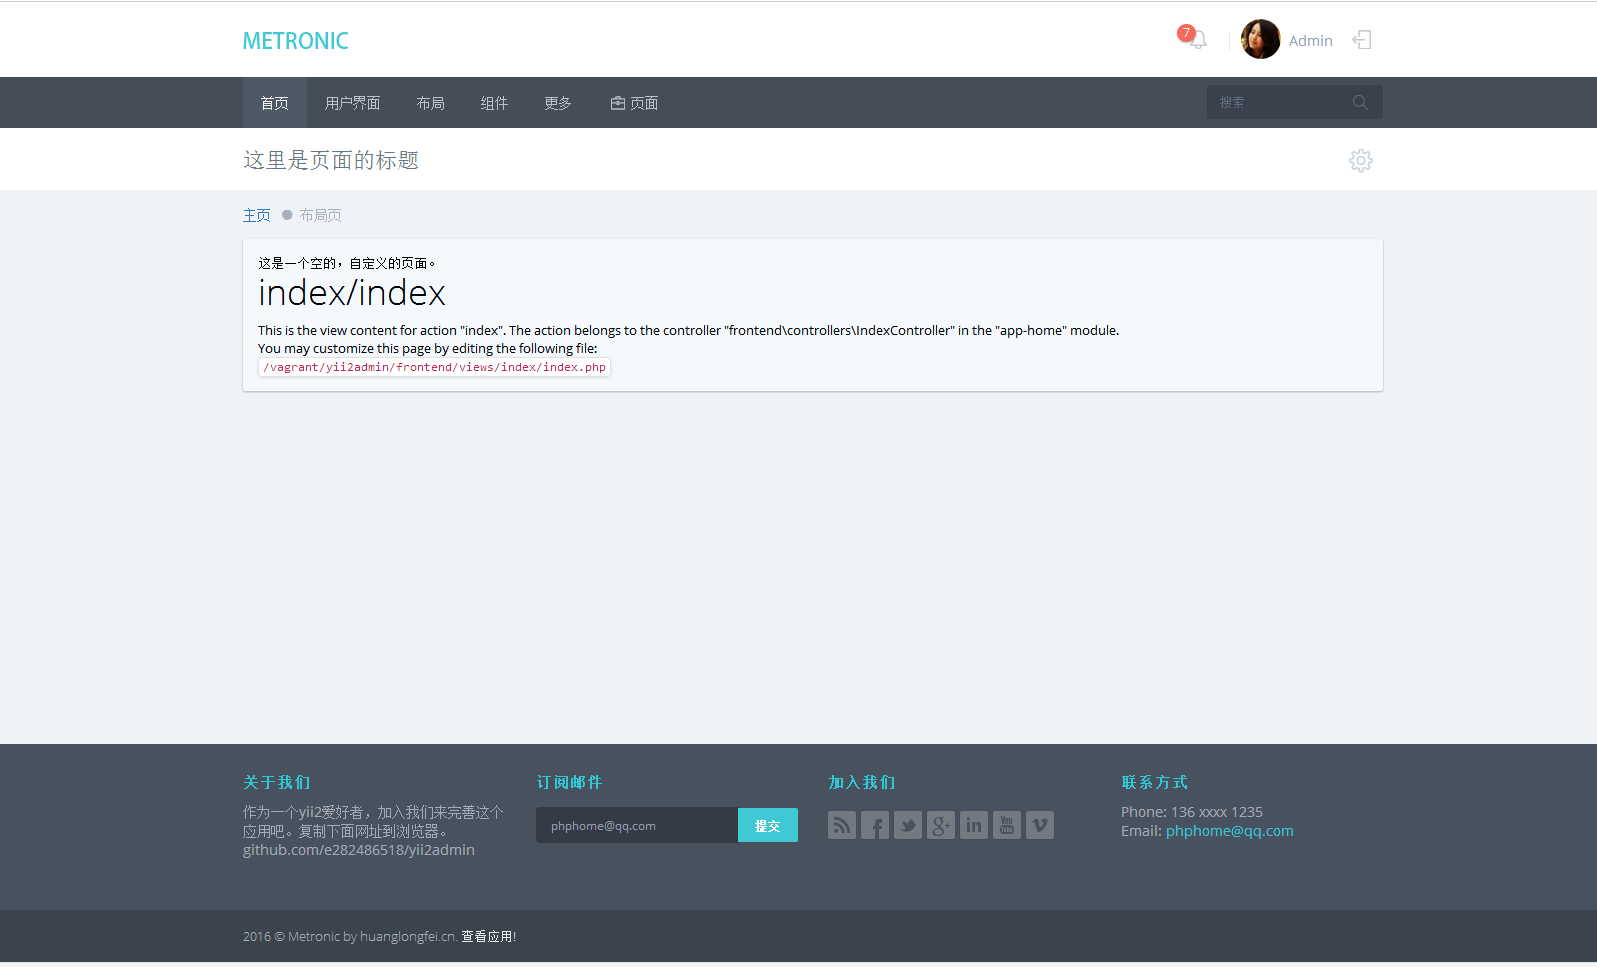
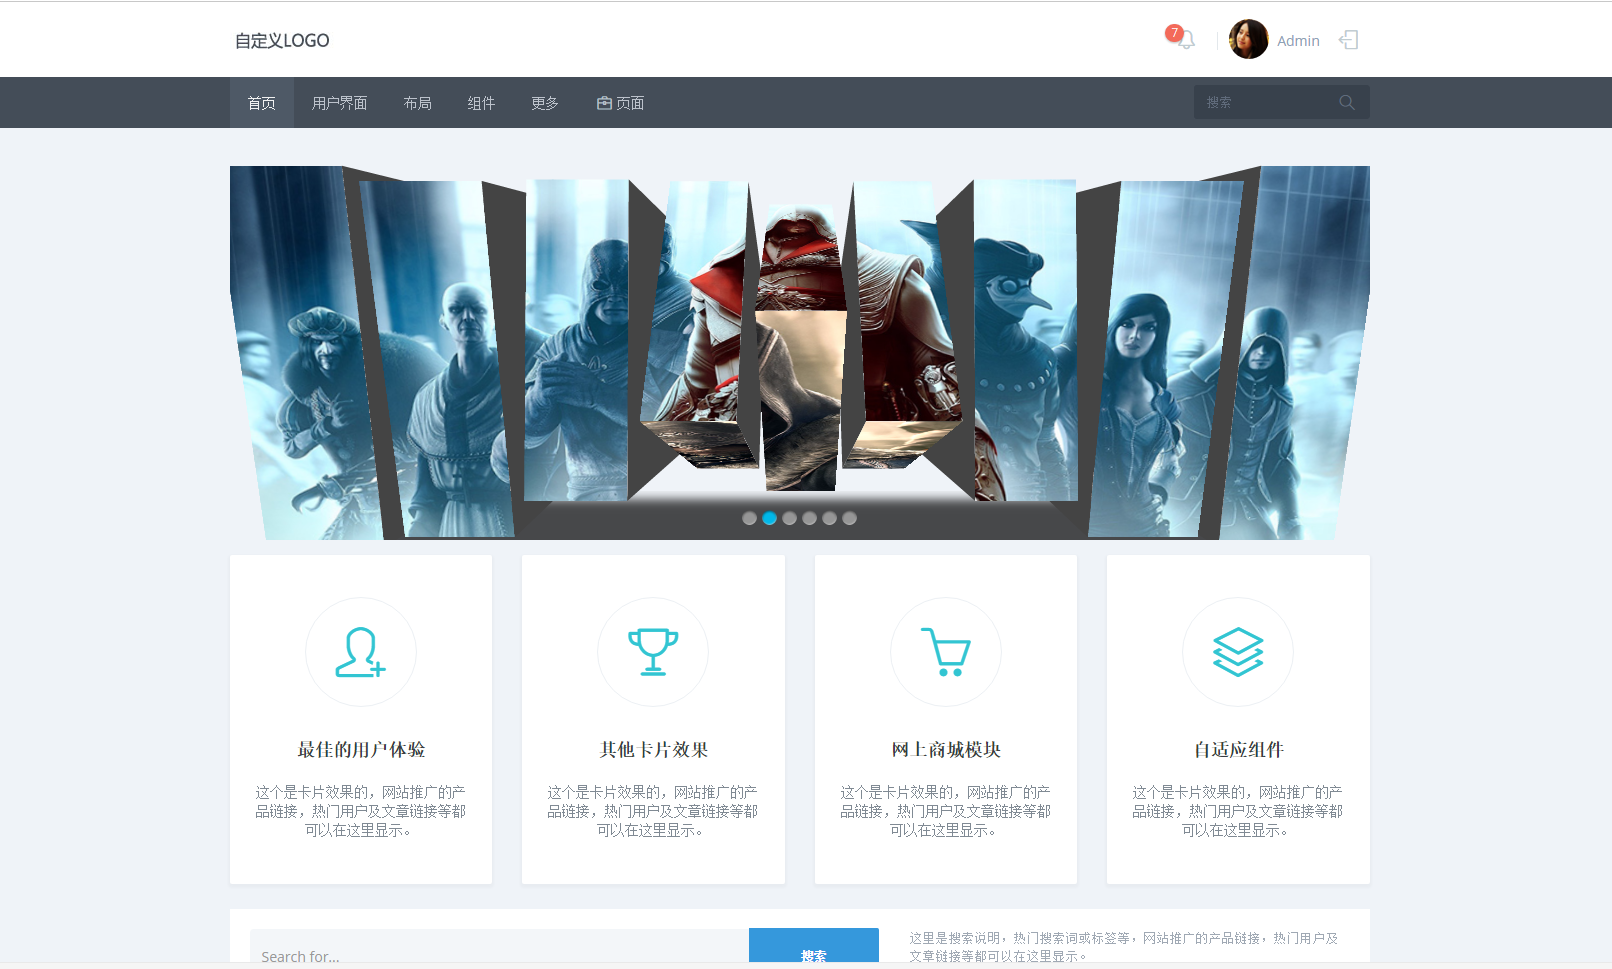
更新 README.md

diff --git a/frontend/views/index/index.php b/frontend/views/index/index.php
@@ -1,14 +1,14 @@
 <?php \frontend\assets\CcsliderAsset::register($this);?>
 
 
-<!--<div id="slider">
+<div id="slider">
     <img src="/static/images/assassins1.jpg" alt="第一张幻灯片" data-transition='{"effect": "cubeUp", "slices": 9, "animSpeed": 1200, "delay": 100, "delayDir": "fromCentre", "easing": "easeInOutBack", "depthOffset": 300, "sliceGap": 30}' />
     <img src="/static/images/assassins2.jpg" alt="第二张幻灯片" data-transition='{"effect": "cubeRight", "slices": 5, "delay": 200}' />
     <img src="/static/images/assassins1.jpg" alt="第三张幻灯片" data-transition='{"effect": "cubeDown", "slices": 15, "animSpeed": 3000, "delay": 30, "easing": "easeInOutElastic", "depthOffset": 200, "sliceGap": 20}' />
     <img src="/static/images/assassins2.jpg" alt="第四张幻灯片" data-transition='{"effect": "cubeLeft", "slices": 5, "delay": 200, "delayDir": "toCentre"}' />
     <img src="/static/images/assassins1.jpg" alt="第五张幻灯片" data-transition='{"effect": "cubeUp", "slices": 5, "animSpeed": 1300, "delay": 100, "easing": "easeInOutCubic", "depthOffset": 500, "sliceGap": 50}' />
     <img src="/static/images/assassins2.jpg" alt="第六张幻灯片" data-transition='{"effect": "cubeRight", "slices": 5, "delay": 200, "delayDir": "last-first"}' />
-</div>-->
+</div>
 
 <?php \frontend\assets\AboutAsset::register($this);?>
 <!-- BEGIN CARDS -->

diff --git a/README.md b/README.md
@@ -1,5 +1,16 @@
 特别说明，项目刚刚做不久，而且对yii2有些功能不是很熟，难免有缺陷。有什么建议可以联系我：phphome@qq.com
 
+如遇bug请告诉作者哦，花你一分钟时间就可以让项目更易使用.^_^.
+
+github : https://github.com/e282486518/yii2admin 
+
+oschina : http://git.oschina.net/ccdream/yii2admin （国内可以下载这个）
+
+交流：http://www.yiichina.com/code/1052 （遇到bug不愿发邮件的可以贴到这里）
+
+全站打包：https://share.weiyun.com/43fba6e5d21dbcdffe32920f78665f18 （不定期更新，安装出错的朋友可以试试这个）
+
+
 ##一、开发基础说明
 * 系统配置文件为.env文件。
 
@@ -67,7 +78,6 @@ Yii::$app->params['web'] = Config::lists();
 ```
 1、下载源文件或git clone https://github.com/e282486518/yii2admin.git
 2、composer install #安装依赖扩展
-   （如果安装失败可以下载链接：https://share.weiyun.com/43fba6e5d21dbcdffe32920f78665f18）
 3、php ./yii install/install #配置环境、配置数据库并安装数据库
 4、参照 doc 目录下的Nginx和Apache配置文件，配置服务器，并设置hosts文件。
 
